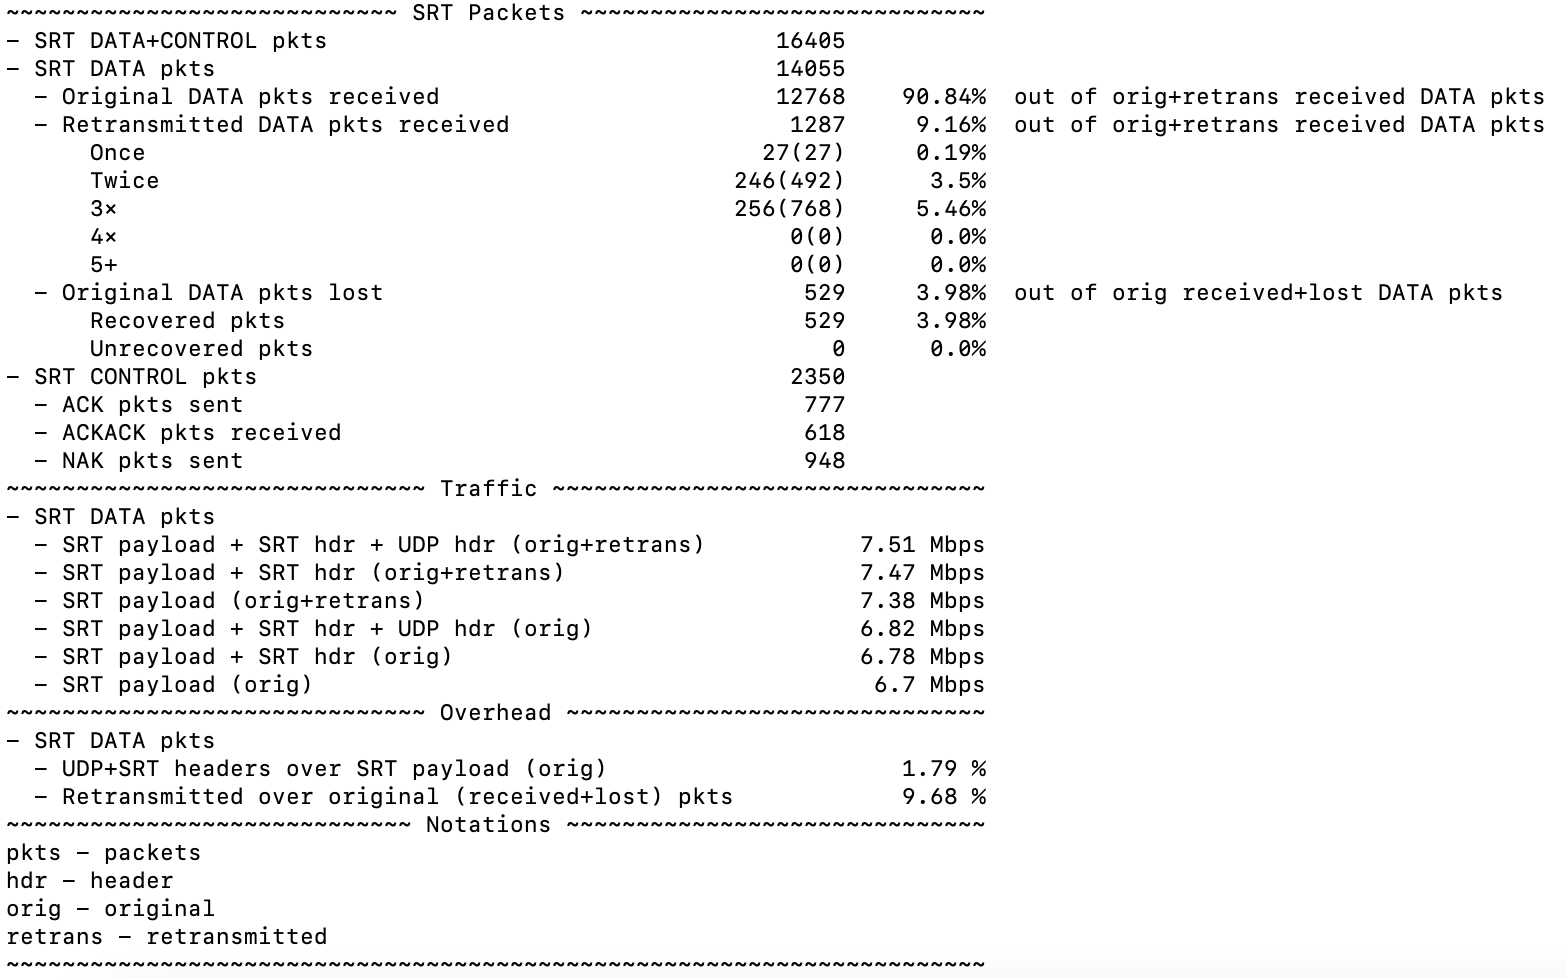
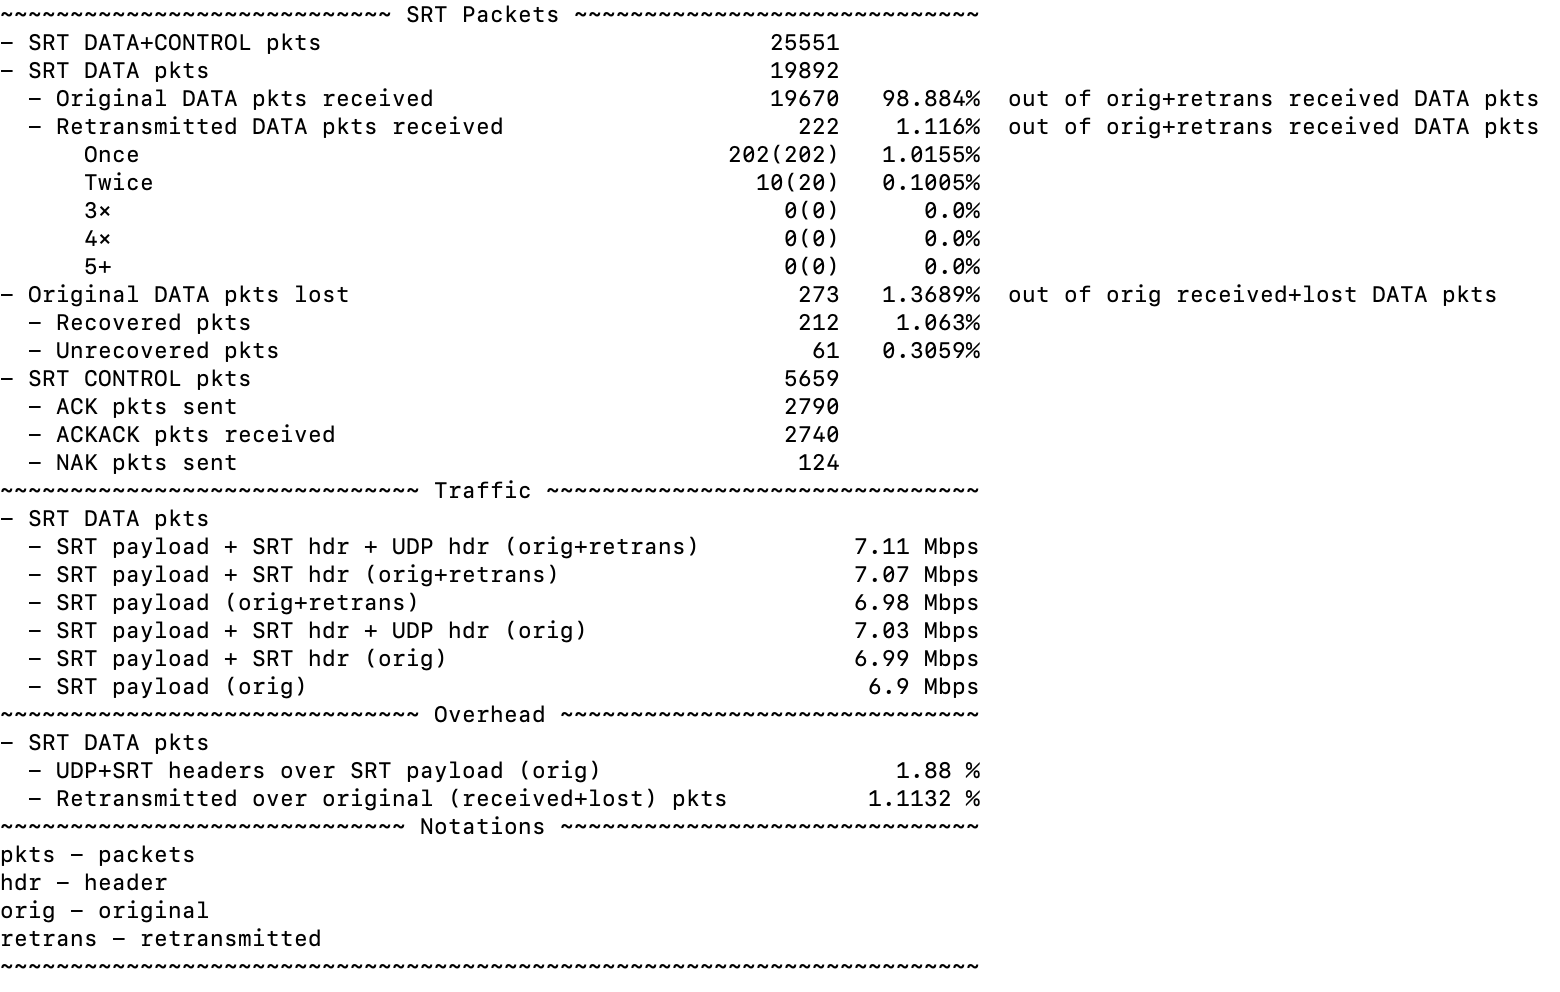
Shifted orig DATA pkts lost to the left

Changed region(s): [[0.0, 0.0, 0.9846, 1.0]]

diff --git a/scripts/get_traffic_stats.py b/scripts/get_traffic_stats.py
@@ -262,16 +262,16 @@ class TrafficStats:
 		# original DATA packets (received + lost) which equals sent unique
 		# packets approximately.
 		print(
-			f"  - Original DATA pkts lost       {data_pkts_org_lost_cnt:>26}"
+			f"- Original DATA pkts lost       {data_pkts_org_lost_cnt:>28}"
 			f" {to_percent(data_pkts_org_lost_cnt, data_pkts_org_rcvd_lost_cnt):>8}%"
 			"  out of orig received+lost DATA pkts"
 		)
 		print(
-			f"      Recovered pkts  {data_pkts_recovered_cnt:>38}"
+			f"  - Recovered pkts  {data_pkts_recovered_cnt:>40}"
 			f" {to_percent(data_pkts_recovered_cnt, data_pkts_org_rcvd_lost_cnt):>8}%"
 		)
 		print(
-			f"      Unrecovered pkts  {data_pkts_unrecovered_cnt:>36}"
+			f"  - Unrecovered pkts  {data_pkts_unrecovered_cnt:>38}"
 			f" {to_percent(data_pkts_unrecovered_cnt, data_pkts_org_rcvd_lost_cnt):>8}%"
 		)
 
